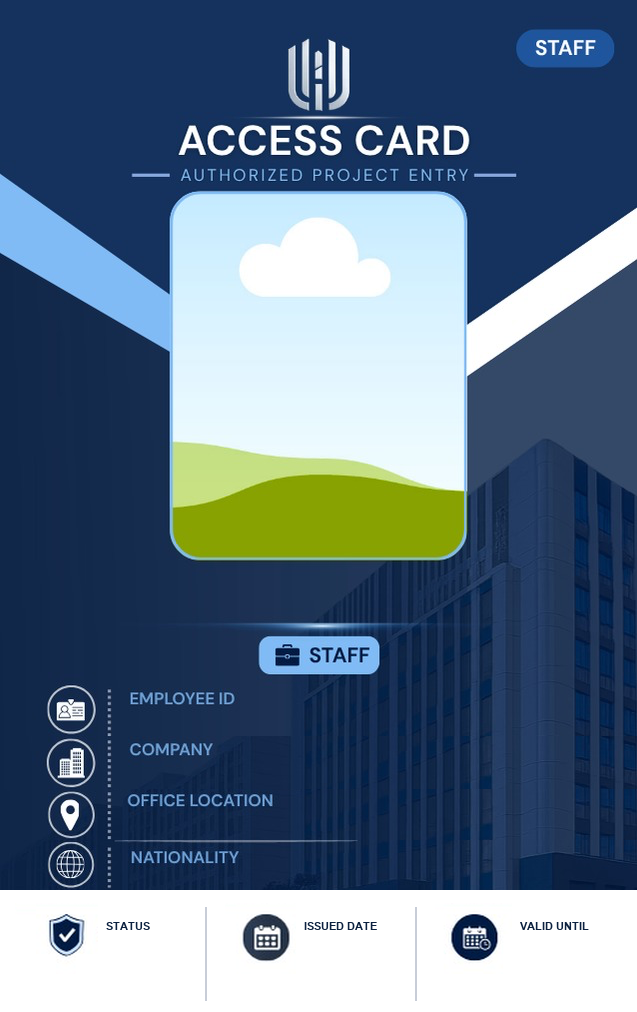
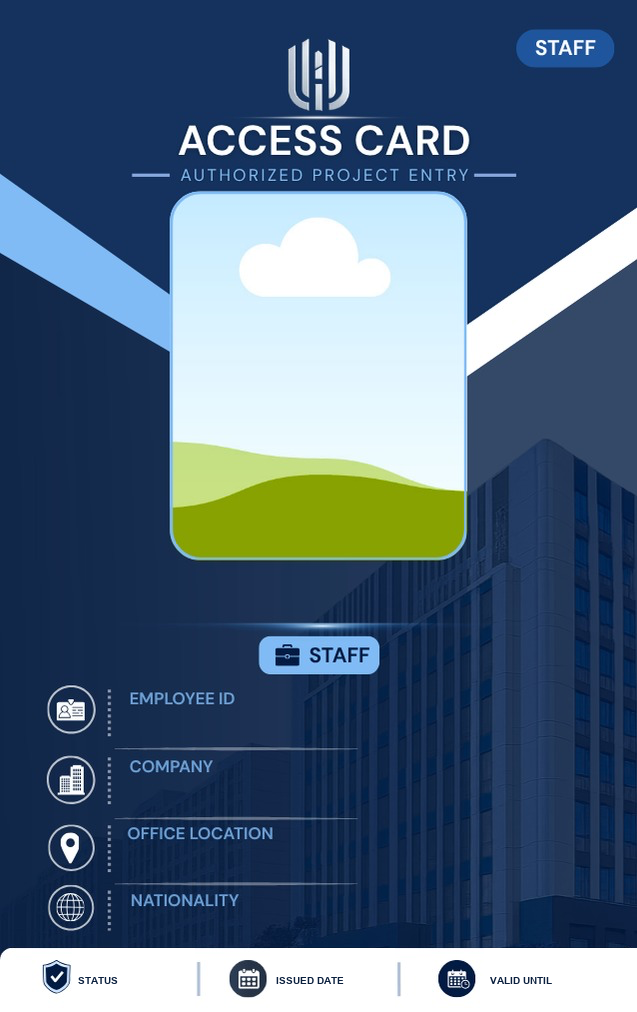
Revert footer to the original single-line label/value layout
The user tried the two-line footer redesign and asked to go back to
how it was before that: STATUS/ISSUED DATE/VALID UNTIL baked as one
line with icons, values sit inline right after each label.

- Restore IT_STAFF1.png/manager1.png/supervisor1.png to the
  single-line footer art (pre-a95169d9), keeping the un-compacted
  field row spacing
- Revert idc2-fv-1..4 to their original top positions and idc2-ftv
  back to the inline-after-label layout/font-size — this also drops
  the container-type/cqw scaling added for the two-line footer, since
  it's not needed by this layout
- Mirror the same fv/ftv values in cardPrint.js, while keeping its
  .photo-zone fix (18.8%/36.6%) — that was an unrelated, already-
  verified-correct fix, not part of this revert
- Bump the template cache-busting version to v=13

Changed region(s): [[0.0, 0.7045, 1.0, 1.0], [0.7457, 0.7658, 0.7755, 0.8271]]

diff --git a/frontend/src/pages/main/idcard.css b/frontend/src/pages/main/idcard.css
@@ -265,20 +265,11 @@
   border-radius: 10px;
   overflow: hidden;
   box-shadow: 0 6px 24px rgba(0,0,0,.22);
-  /* This same component renders at very different widths — the Access
-     Cards grid (.idc-grid, minmax(185px,200px)) vs. the bigger Profile
-     tab / Employee Card detail embeds — so a fixed px font-size for the
-     overlaid values (idc2-ftv) is always wrong somewhere: tuned for the
-     grid it's fine there but tiny elsewhere, tuned for a bigger view it
-     truncates ("25 J…") in the grid. container-type here lets idc2-ftv
-     use cqw units that scale with THIS card's own rendered width instead
-     of one fixed px guess. */
-  container-type: inline-size;
-  /* The overlaid text (idc2-fv/idc2-ftv) runs small on purpose to fit the
-     template art's fixed gaps. Mobile WebKit/Blink auto-boost short,
-     isolated bold words (e.g. "ACTIVE") far more than longer strings at
-     the same declared size, so without this reset STATUS renders
-     noticeably larger than the date values next to it. */
+  /* The overlaid text (idc2-fv/idc2-ftv) runs as small as 4-6.5px on
+     purpose to fit the template art's fixed gaps. Mobile WebKit/Blink
+     auto-boost short, isolated bold words (e.g. "ACTIVE") far more than
+     longer strings at the same declared size, so without this reset
+     STATUS renders noticeably larger than the date values next to it. */
   -webkit-text-size-adjust: 100%;
   text-size-adjust: 100%;
 }
@@ -391,10 +382,7 @@
 
 /* Field values — Employee ID / Company / Office Location / Nationality,
    each centered in the gap below its baked label and above the next
-   divider line. Rows were pulled closer together on 2026-08-31 (their
-   baked inter-row gaps trimmed) to make room for the taller two-line
-   footer below, so these moved up from the original 71.6/78.3/85.0/91.4%
-   — only the first row didn't shift, since the freed gaps all sit below it. */
+   divider line (rows run label@~69%/~76%/~82%/~89%, dividers @~74%/~81%/~87%). */
 .idc2-fv {
   position: absolute;
   left: 20.5%;
@@ -409,16 +397,16 @@
   text-overflow: ellipsis;
 }
 .idc2-fv-1 { top: 71.6%; } /* Employee ID */
-.idc2-fv-2 { top: 76.6%; } /* Company */
-.idc2-fv-3 { top: 81.7%; } /* Office Location */
-.idc2-fv-4 { top: 87.2%; } /* Nationality */
+.idc2-fv-2 { top: 78.3%; } /* Company */
+.idc2-fv-3 { top: 85.0%; } /* Office Location */
+.idc2-fv-4 { top: 91.4%; } /* Nationality */
 
-/* ── Footer strip — redesigned 2026-08-31 into a real two-line layout
-   (icon + small baked label on top, a bold value line underneath), matching
-   the printed-card reference the user wanted. This needed the taller bar
-   baked into the template art (frame now starts ~88.2% instead of ~93.7%,
-   freed by compacting the four field rows above) — the previous "one baked
-   line, values crammed in after/under it" layout is gone. ── */
+/* ── Footer strip — STATUS / ISSUED DATE / VALID UNTIL labels + icons are
+   baked into the template art on a single line that fills the whole bar
+   height, so there is no gap below them to tuck a second line into. Values
+   sit inline, right after each label, in the leftover gap before the next
+   divider (re-measured 2026-08-31 against the refreshed artwork; the gap
+   after "ISSUED DATE" is the tightest at ~6.6% width). ── */
 .idc2-tpl-footer {
   position: absolute;
   inset: 0;
@@ -427,15 +415,11 @@
 }
 .idc2-ftv {
   position: absolute;
-  top: 96%;
+  top: 97%;
   transform: translateY(-50%);
-  /* cqw, not px: the value's width (idc2-ftv-1/2/3, in %) and this font-size
-     both scale with the card's own rendered width, so the text-to-box ratio
-     — and therefore whether "25/06/26" fits — stays the same whether this
-     card is a 185px grid tile or a much bigger detail-page embed. A fixed
-     px here was tuned for one specific width and truncated at any other. */
-  font-size: 2.6cqw;
-  font-weight: 800;
+  font-size: 3.6px;
+  letter-spacing: -0.1px;
+  font-weight: 700;
   line-height: 1;
   color: #0c1a30;
   text-align: left;
@@ -443,9 +427,9 @@
   overflow: hidden;
   text-overflow: ellipsis;
 }
-.idc2-ftv-1 { left: 18.5%; width: 13%;   } /* Status — wider than Active needs, room for Returned/No Card */
-.idc2-ftv-2 { left: 49%;   width: 12.5%; } /* Issued Date */
-.idc2-ftv-3 { left: 83%;   width: 15.5%; } /* Valid Until */
+.idc2-ftv-1 { left: 20.5%; width: 7.5%;  } /* Status */
+.idc2-ftv-2 { left: 55.3%; width: 6.9%;  } /* Issued Date */
+.idc2-ftv-3 { left: 87.9%; width: 11.6%; } /* Valid Until */
 
 /* ── Action buttons ── */
 .idc-actions {

diff --git a/frontend/src/utils/cardPrint.js b/frontend/src/utils/cardPrint.js
@@ -5,9 +5,9 @@ const fmtUp = (d) => fmt(d).toUpperCase();
 
 /* ── Template definitions — maps role → card image + overlay colours ── */
 const TEMPLATES = {
-  Staff:      { key:"Staff",      img:"/id-card/IT_STAFF1.png?v=12",    panelBg:"#0c1a30", footBg:"#07101e", photoBorder:"#80bbf5" },
-  Supervisor: { key:"Supervisor", img:"/id-card/supervisor1.png?v=12",  panelBg:"#091e19", footBg:"#05120d", photoBorder:"#55c8be" },
-  Manager:    { key:"Manager",    img:"/id-card/manager1.png?v=12",     panelBg:"#110826", footBg:"#090518", photoBorder:"#b775fb" },
+  Staff:      { key:"Staff",      img:"/id-card/IT_STAFF1.png?v=13",    panelBg:"#0c1a30", footBg:"#07101e", photoBorder:"#80bbf5" },
+  Supervisor: { key:"Supervisor", img:"/id-card/supervisor1.png?v=13",  panelBg:"#091e19", footBg:"#05120d", photoBorder:"#55c8be" },
+  Manager:    { key:"Manager",    img:"/id-card/manager1.png?v=13",     panelBg:"#110826", footBg:"#090518", photoBorder:"#b775fb" },
 };
 
 const TEMPLATE_RULES = [
@@ -207,20 +207,20 @@ body { font-family:'Times New Roman','Saysettha OT',serif; }
   white-space: nowrap; overflow: hidden; text-overflow: ellipsis;
 }
 .fv-1 { top: 71.6%; } /* Employee ID */
-.fv-2 { top: 76.6%; } /* Company */
-.fv-3 { top: 81.7%; } /* Office Location */
-.fv-4 { top: 87.2%; } /* Nationality */
+.fv-2 { top: 78.3%; } /* Company */
+.fv-3 { top: 85.0%; } /* Office Location */
+.fv-4 { top: 91.4%; } /* Nationality */
 
 .ftv {
   position: absolute;
-  top: 96%;
+  top: 97%;
   transform: translateY(-50%);
-  font-size: 6.5px; font-weight: 800; line-height: 1; color: #0c1a30;
+  font-size: 5px; font-weight: 700; line-height: 1; color: #0c1a30;
   text-align: left; white-space: nowrap; overflow: hidden; text-overflow: ellipsis;
 }
-.ftv-1 { left: 18.5%; width: 13%;   } /* Status */
-.ftv-2 { left: 49%;   width: 12.5%; } /* Issued Date */
-.ftv-3 { left: 83%;   width: 15.5%; } /* Valid Until */
+.ftv-1 { left: 13.5%;  width: 16%; } /* Status */
+.ftv-2 { left: 43.6%;  width: 17%; } /* Issued Date */
+.ftv-3 { left: 79.3%;  width: 19%; } /* Valid Until */
 </style>
 </head>
 <body>

diff --git a/frontend/src/pages/main/IdCard.jsx b/frontend/src/pages/main/IdCard.jsx
@@ -12,12 +12,9 @@ import "./idcard.css";
 
 const fmt   = (d) => d ? new Date(d).toLocaleDateString("en-GB", { day:"2-digit", month:"short", year:"numeric" }) : "–";
 const fmtUp = (d) => fmt(d).toUpperCase();
-/* Compact DD/MM/YY for the on-screen footer's Issued/Valid values — even
-   with the footer's font-size now scaling with the card (idc2-ftv, cqw
-   units), the Issued Date column is only ~12.5% of the card's width, and
-   the full "25 JUN 2026" doesn't fit there at any size without shrinking
-   the font enough to hurt Status/Valid Until too. Print (cardPrint.js)
-   renders at the card's real physical size, so it keeps the full form. */
+/* Compact DD/MM/YY — the footer's Issued/Valid columns sit inline right
+   after a baked-in label with very little leftover width (see idcard.css
+   .idc2-ftv-2/-3), so the long "25 JUN 2026" form doesn't fit there. */
 const fmtShort = (d) => d ? new Date(d).toLocaleDateString("en-GB", { day:"2-digit", month:"2-digit", year:"2-digit" }) : "–";
 
 /* Icons for topbar buttons + KPI tiles */
